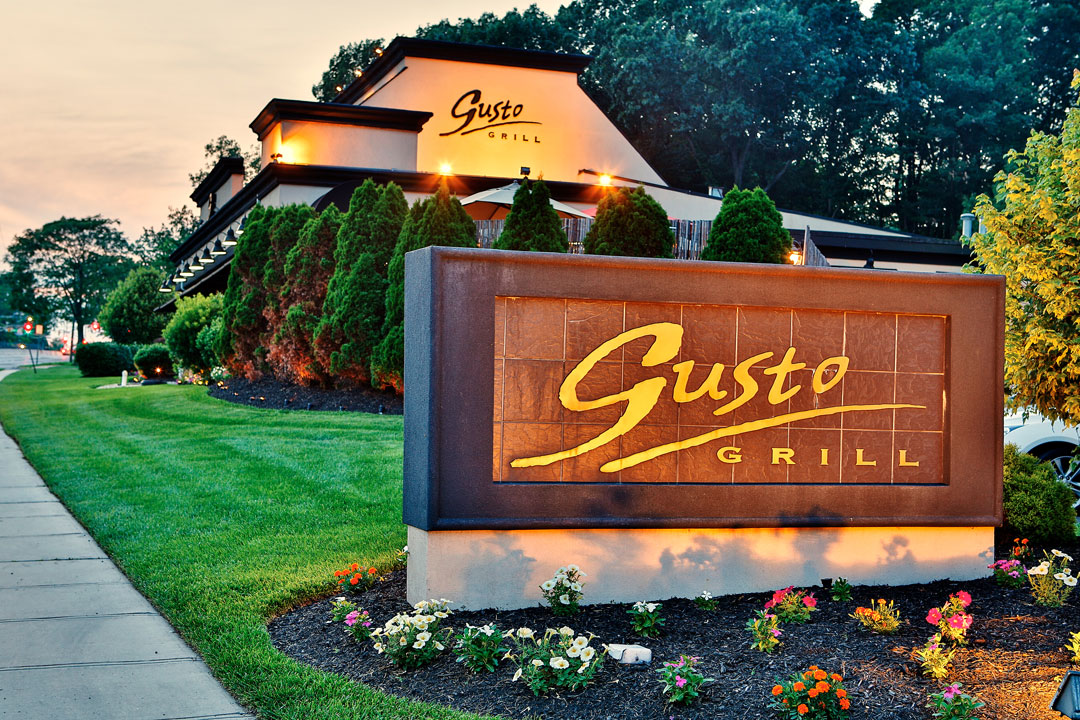
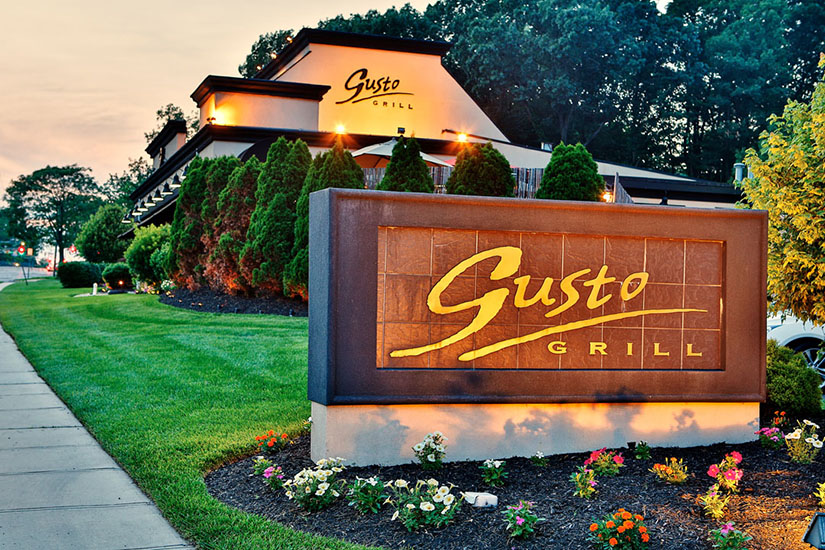
slide images

diff --git a/app/assets/stylesheets/master.css.scss b/app/assets/stylesheets/master.css.scss
@@ -74,3 +74,8 @@ blockquote p {
   max-width: 70%;
   height: auto;
 }
+
+.carousel-inner > .item > img, .carousel-inner > .item > a > img {
+    max-height: 550px;
+    width: 100%;
+}
